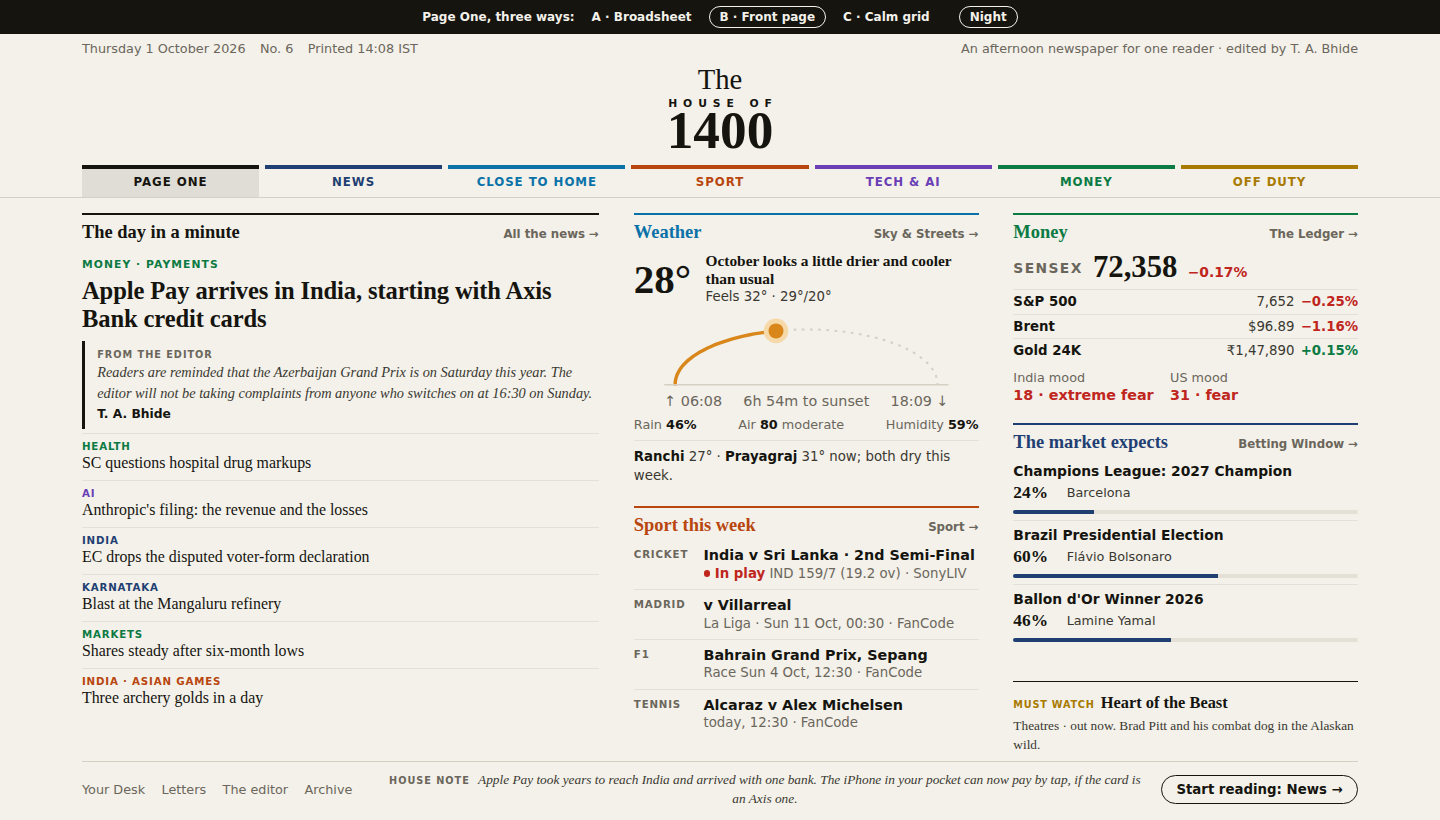
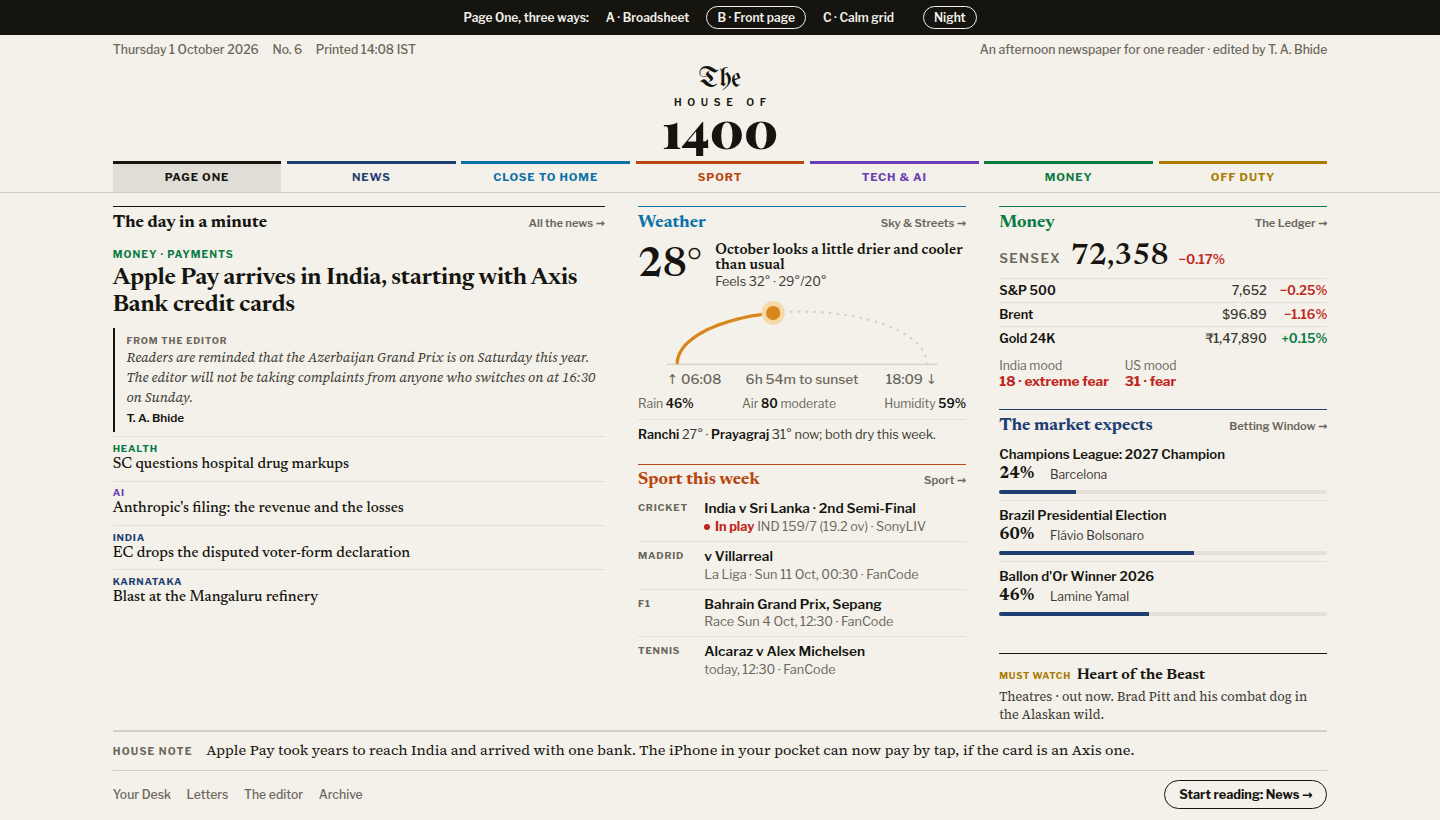
Page One B: House Note on its own line; self-host fonts in the spec
Claude-Session: https://claude.ai/code/session_01JWihSHpd9U85cYp2K9MW5z

diff --git a/design/page-one/page-one-variants.html b/design/page-one/page-one-variants.html
@@ -98,7 +98,8 @@ ol.bets .bar i{display:block;height:100%;background:var(--c)}
 .pick b{font:650 16px/1.25 var(--head)}
 .pick p{margin:3px 0 0;font:13px/1.4 var(--serif);color:var(--ink2)}
 .foot{display:flex;flex-wrap:wrap;justify-content:space-between;align-items:center;gap:12px;border-top:1px solid var(--rule);padding:9px 0 12px;font:500 12.5px var(--sans);color:var(--muted)}
-.foot .hn{flex:1 1 320px;margin:0;font:italic 13px/1.4 var(--serif);color:var(--ink2);text-align:center}.foot .hn b{font:700 9.5px var(--sans);font-style:normal;letter-spacing:.1em;text-transform:uppercase;color:var(--muted);margin-right:8px}
+.hn{display:flex;align-items:baseline;gap:14px;margin:0;padding:9px 0;border-top:3px double var(--rule);font:15px/1.45 var(--serif);color:var(--ink)}.hn b{flex:none;font:700 10.5px var(--sans);letter-spacing:.12em;text-transform:uppercase;color:var(--muted)}
+@media (max-width:760px){.hn{display:block}.hn b{display:block;margin-bottom:2px}}
 .ednote{margin:8px 0 4px;padding:8px 0 8px 12px;border-left:3px solid var(--ink);font:italic 14px/1.45 var(--serif);color:var(--ink2)}.ednote b{display:block;font:700 9.5px var(--sans);font-style:normal;letter-spacing:.1em;text-transform:uppercase;color:var(--muted);margin-bottom:2px}.ednote i{display:block;font:600 12px var(--sans);font-style:normal;color:var(--ink);margin-top:3px}
 .foot nav a{margin-right:16px;white-space:nowrap}.foot a.next{white-space:nowrap}.foot nav a:hover{color:var(--ink)}
 .foot a.next{font:700 13px var(--sans);color:var(--ink);border:1px solid var(--ink);border-radius:99px;padding:6px 14px}
@@ -223,8 +224,8 @@ function evening() {
   return `<a class="pick" href="#off" style="--c:${dc("off")}"><span class="v">Must watch</span><b>${esc(s.title)}</b><p>${esc(s.where)} · ${esc(s.release.toLowerCase())}. ${esc(s.reason.split(". ")[0])}.</p></a>`;
 }
 const blk = (id, title, link, body, label) => `<section class="blk" style="--c:${dc(id)}"><div class="bh"><h2>${title}</h2><a href="#${id}">${link} →</a></div>${body}</section>`;
-// The House Note, every day, sits in the foot line: small, last, a smile on the way out.
-const foot = () => `<div class="foot"><nav><a href="#">Your Desk</a><a href="#">Letters</a><a href="#">The editor</a><a href="#">Archive</a></nav>${D.edition.house_note ? `<p class="hn"><b>House Note</b>${esc(D.edition.house_note)}</p>` : ""}<a class="next" href="#news">Start reading: News →</a></div>`;
+// The House Note, every day, gets its own line across the page above the foot: last thing read, a smile on the way out.
+const foot = () => `${D.edition.house_note ? `<p class="hn"><b>House Note</b><span>${esc(D.edition.house_note)}</span></p>` : ""}<div class="foot"><nav><a href="#">Your Desk</a><a href="#">Letters</a><a href="#">The editor</a><a href="#">Archive</a></nav><a class="next" href="#news">Start reading: News →</a></div>`;
 // The editor's note runs only on big days (?note=1 shows one from 25 Sep); it sits under the lead and the fit drops lines to make room.
 const NOTE = D.edition.editor_note || (new URLSearchParams(location.search).get("note") ? D.page.sample_editor_note : "");
 const edNote = () => NOTE ? `<div class="ednote"><b>From the editor</b>${esc(NOTE)}<i>T. A. Bhide</i></div>` : "";

diff --git a/design/page-one/src2.html b/design/page-one/src2.html
@@ -98,7 +98,8 @@ ol.bets .bar i{display:block;height:100%;background:var(--c)}
 .pick b{font:650 16px/1.25 var(--head)}
 .pick p{margin:3px 0 0;font:13px/1.4 var(--serif);color:var(--ink2)}
 .foot{display:flex;flex-wrap:wrap;justify-content:space-between;align-items:center;gap:12px;border-top:1px solid var(--rule);padding:9px 0 12px;font:500 12.5px var(--sans);color:var(--muted)}
-.foot .hn{flex:1 1 320px;margin:0;font:italic 13px/1.4 var(--serif);color:var(--ink2);text-align:center}.foot .hn b{font:700 9.5px var(--sans);font-style:normal;letter-spacing:.1em;text-transform:uppercase;color:var(--muted);margin-right:8px}
+.hn{display:flex;align-items:baseline;gap:14px;margin:0;padding:9px 0;border-top:3px double var(--rule);font:15px/1.45 var(--serif);color:var(--ink)}.hn b{flex:none;font:700 10.5px var(--sans);letter-spacing:.12em;text-transform:uppercase;color:var(--muted)}
+@media (max-width:760px){.hn{display:block}.hn b{display:block;margin-bottom:2px}}
 .ednote{margin:8px 0 4px;padding:8px 0 8px 12px;border-left:3px solid var(--ink);font:italic 14px/1.45 var(--serif);color:var(--ink2)}.ednote b{display:block;font:700 9.5px var(--sans);font-style:normal;letter-spacing:.1em;text-transform:uppercase;color:var(--muted);margin-bottom:2px}.ednote i{display:block;font:600 12px var(--sans);font-style:normal;color:var(--ink);margin-top:3px}
 .foot nav a{margin-right:16px;white-space:nowrap}.foot a.next{white-space:nowrap}.foot nav a:hover{color:var(--ink)}
 .foot a.next{font:700 13px var(--sans);color:var(--ink);border:1px solid var(--ink);border-radius:99px;padding:6px 14px}
@@ -223,8 +224,8 @@ function evening() {
   return `<a class="pick" href="#off" style="--c:${dc("off")}"><span class="v">Must watch</span><b>${esc(s.title)}</b><p>${esc(s.where)} · ${esc(s.release.toLowerCase())}. ${esc(s.reason.split(". ")[0])}.</p></a>`;
 }
 const blk = (id, title, link, body, label) => `<section class="blk" style="--c:${dc(id)}"><div class="bh"><h2>${title}</h2><a href="#${id}">${link} →</a></div>${body}</section>`;
-// The House Note, every day, sits in the foot line: small, last, a smile on the way out.
-const foot = () => `<div class="foot"><nav><a href="#">Your Desk</a><a href="#">Letters</a><a href="#">The editor</a><a href="#">Archive</a></nav>${D.edition.house_note ? `<p class="hn"><b>House Note</b>${esc(D.edition.house_note)}</p>` : ""}<a class="next" href="#news">Start reading: News →</a></div>`;
+// The House Note, every day, gets its own line across the page above the foot: last thing read, a smile on the way out.
+const foot = () => `${D.edition.house_note ? `<p class="hn"><b>House Note</b><span>${esc(D.edition.house_note)}</span></p>` : ""}<div class="foot"><nav><a href="#">Your Desk</a><a href="#">Letters</a><a href="#">The editor</a><a href="#">Archive</a></nav><a class="next" href="#news">Start reading: News →</a></div>`;
 // The editor's note runs only on big days (?note=1 shows one from 25 Sep); it sits under the lead and the fit drops lines to make room.
 const NOTE = D.edition.editor_note || (new URLSearchParams(location.search).get("note") ? D.page.sample_editor_note : "");
 const edNote = () => NOTE ? `<div class="ednote"><b>From the editor</b>${esc(NOTE)}<i>T. A. Bhide</i></div>` : "";

diff --git a/design/page-one/README.md b/design/page-one/README.md
@@ -49,11 +49,13 @@ Mock: `page-one-variants.html?v=B` (add `&note=1` for a big-day editor's note, `
    - **The day in a minute:** the lead headline (no deck), the editor's note under it on big days only, then the editor's glance lines (5 to 10 with the lead, each tagged, each a link to its desk). The evening pick ("Must watch" from Screen & Stage) when there is one.
    - **Weather** (Bengaluru: temperature, the month headline, feels like and high/low, the sun arc by day or the moon arc in its phase by night, rain or moon lit, air, humidity, one family line) then **Sport this week** (cricket, Madrid, F1, tennis; where to watch on each).
    - **Money** (Sensex big; S&P 500, Brent, Gold 24K with 1D; India and US mood) then **The market expects** (top 3 by the likeliest outcome).
-5. Foot line: Your Desk, Letters, The editor, Archive; the House Note (every day); "Start reading: News".
+5. House Note (every day): its own line across the page under a double rule, label left, one sentence.
+6. Foot line: Your Desk, Letters, The editor, Archive; "Start reading: News".
 
 **Behaviour**
 - One screen, any screen: as many glance lines as fit (never fewer than five with the lead), then the whole page scales (0.85 to 2) to fill the height within the width. Phones scroll normally.
 - The evening pick goes to the shortest column.
 - No illustrations on Page One.
+- Self-host the fonts (Newsreader, Source Serif 4, Libre Franklin, Playfair Display, UnifrakturMaguntia) so the nameplate never falls back to a plain serif if Google Fonts is slow or blocked.
 
 **When implementing, carry over the live paper's rules:** every live figure keeps primary, backup, last-known-good with its "as of", else it is hidden; a panel with nothing to say is left out and the columns rebalance (no filler); market-closed and stale states show their time; the arc and figures refresh in the browser as today.

diff --git a/docs/DECISIONS.md b/docs/DECISIONS.md
@@ -521,5 +521,5 @@ Parth asked for a full audit of the paper's design and consistency. Six things w
 ## 1 Oct 2026: Page One design approved (B, "Front page"); parked for implementation (Parth)
 - Chosen over A (broadsheet ears, too cluttered) and C (calm grid). Spec in `design/page-one/README.md` (FINAL), mock `design/page-one/page-one-variants.html?v=B`.
 - Page One fills one screen on any laptop or monitor: lines first, then the whole page scales to the height (within the width). No illustrations on Page One.
-- The House Note moves to Page One's foot line; the editor's note (big days only) sits under the lead.
+- The House Note gets its own line across Page One above the foot; the editor's note (big days only) sits under the lead. Fonts are self-hosted so the nameplate never falls back.
 - Not live yet: the redesign (desks, fonts, colours, Page One) is implemented later, in one go, after the desk pages are designed.
